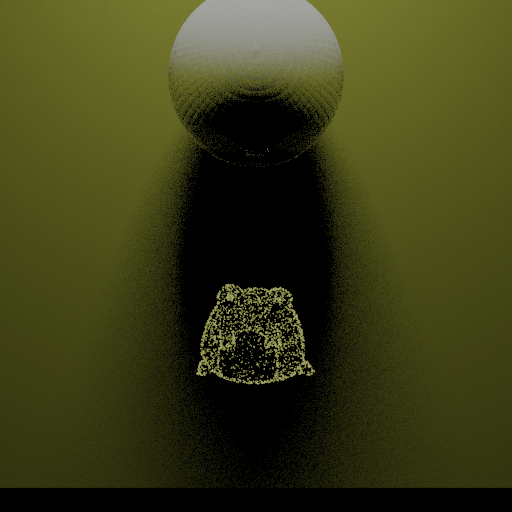
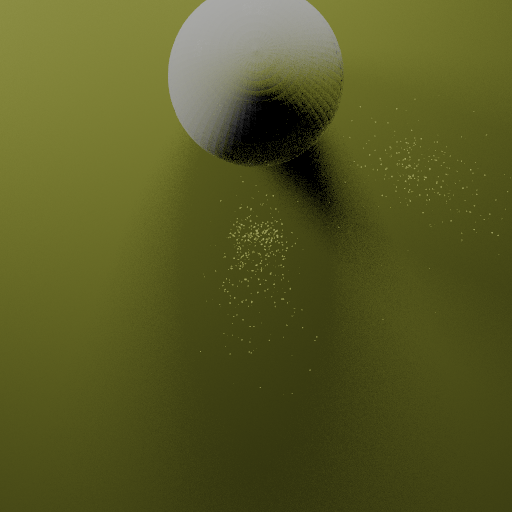
fix: multiple lights

diff --git a/photonmapping.cpp b/photonmapping.cpp
@@ -7,8 +7,7 @@ void PhotonMapping::generatePhotonMap(PhotonMap &pmap, const Scene &scene, bool 
     for (int i = 0; i < scene.getEmissives().size(); ++i) {
         auto light = scene.getEmissives()[i];
         size_t pmapSize = pmap.photons.size();
-        while ((pmap.photons.size() - pmapSize) < (float)pmap.maxPhotonNum * 0.5) {
-//            std::cerr << pmap.photons.size() << std::flush;
+        while ((pmap.photons.size() - pmapSize) < (float)pmap.maxPhotonNum / scene.getEmissives().size()) {
 //            if ((pmap.photons.size() - pmapSize) == 0){
 //                std::cout << "pmap.photons.size() - pmapSize = " << (pmap.photons.size() - pmapSize) << std::endl;
 //            }

diff --git a/pathtracer.cpp b/pathtracer.cpp
@@ -13,7 +13,7 @@
 
 using namespace Eigen;
 
-bool doStylizedCaustics = true;
+bool doStylizedCaustics = false;
 bool useGreedyMethod = false;
 
 extern int maxPhotonsNum;
